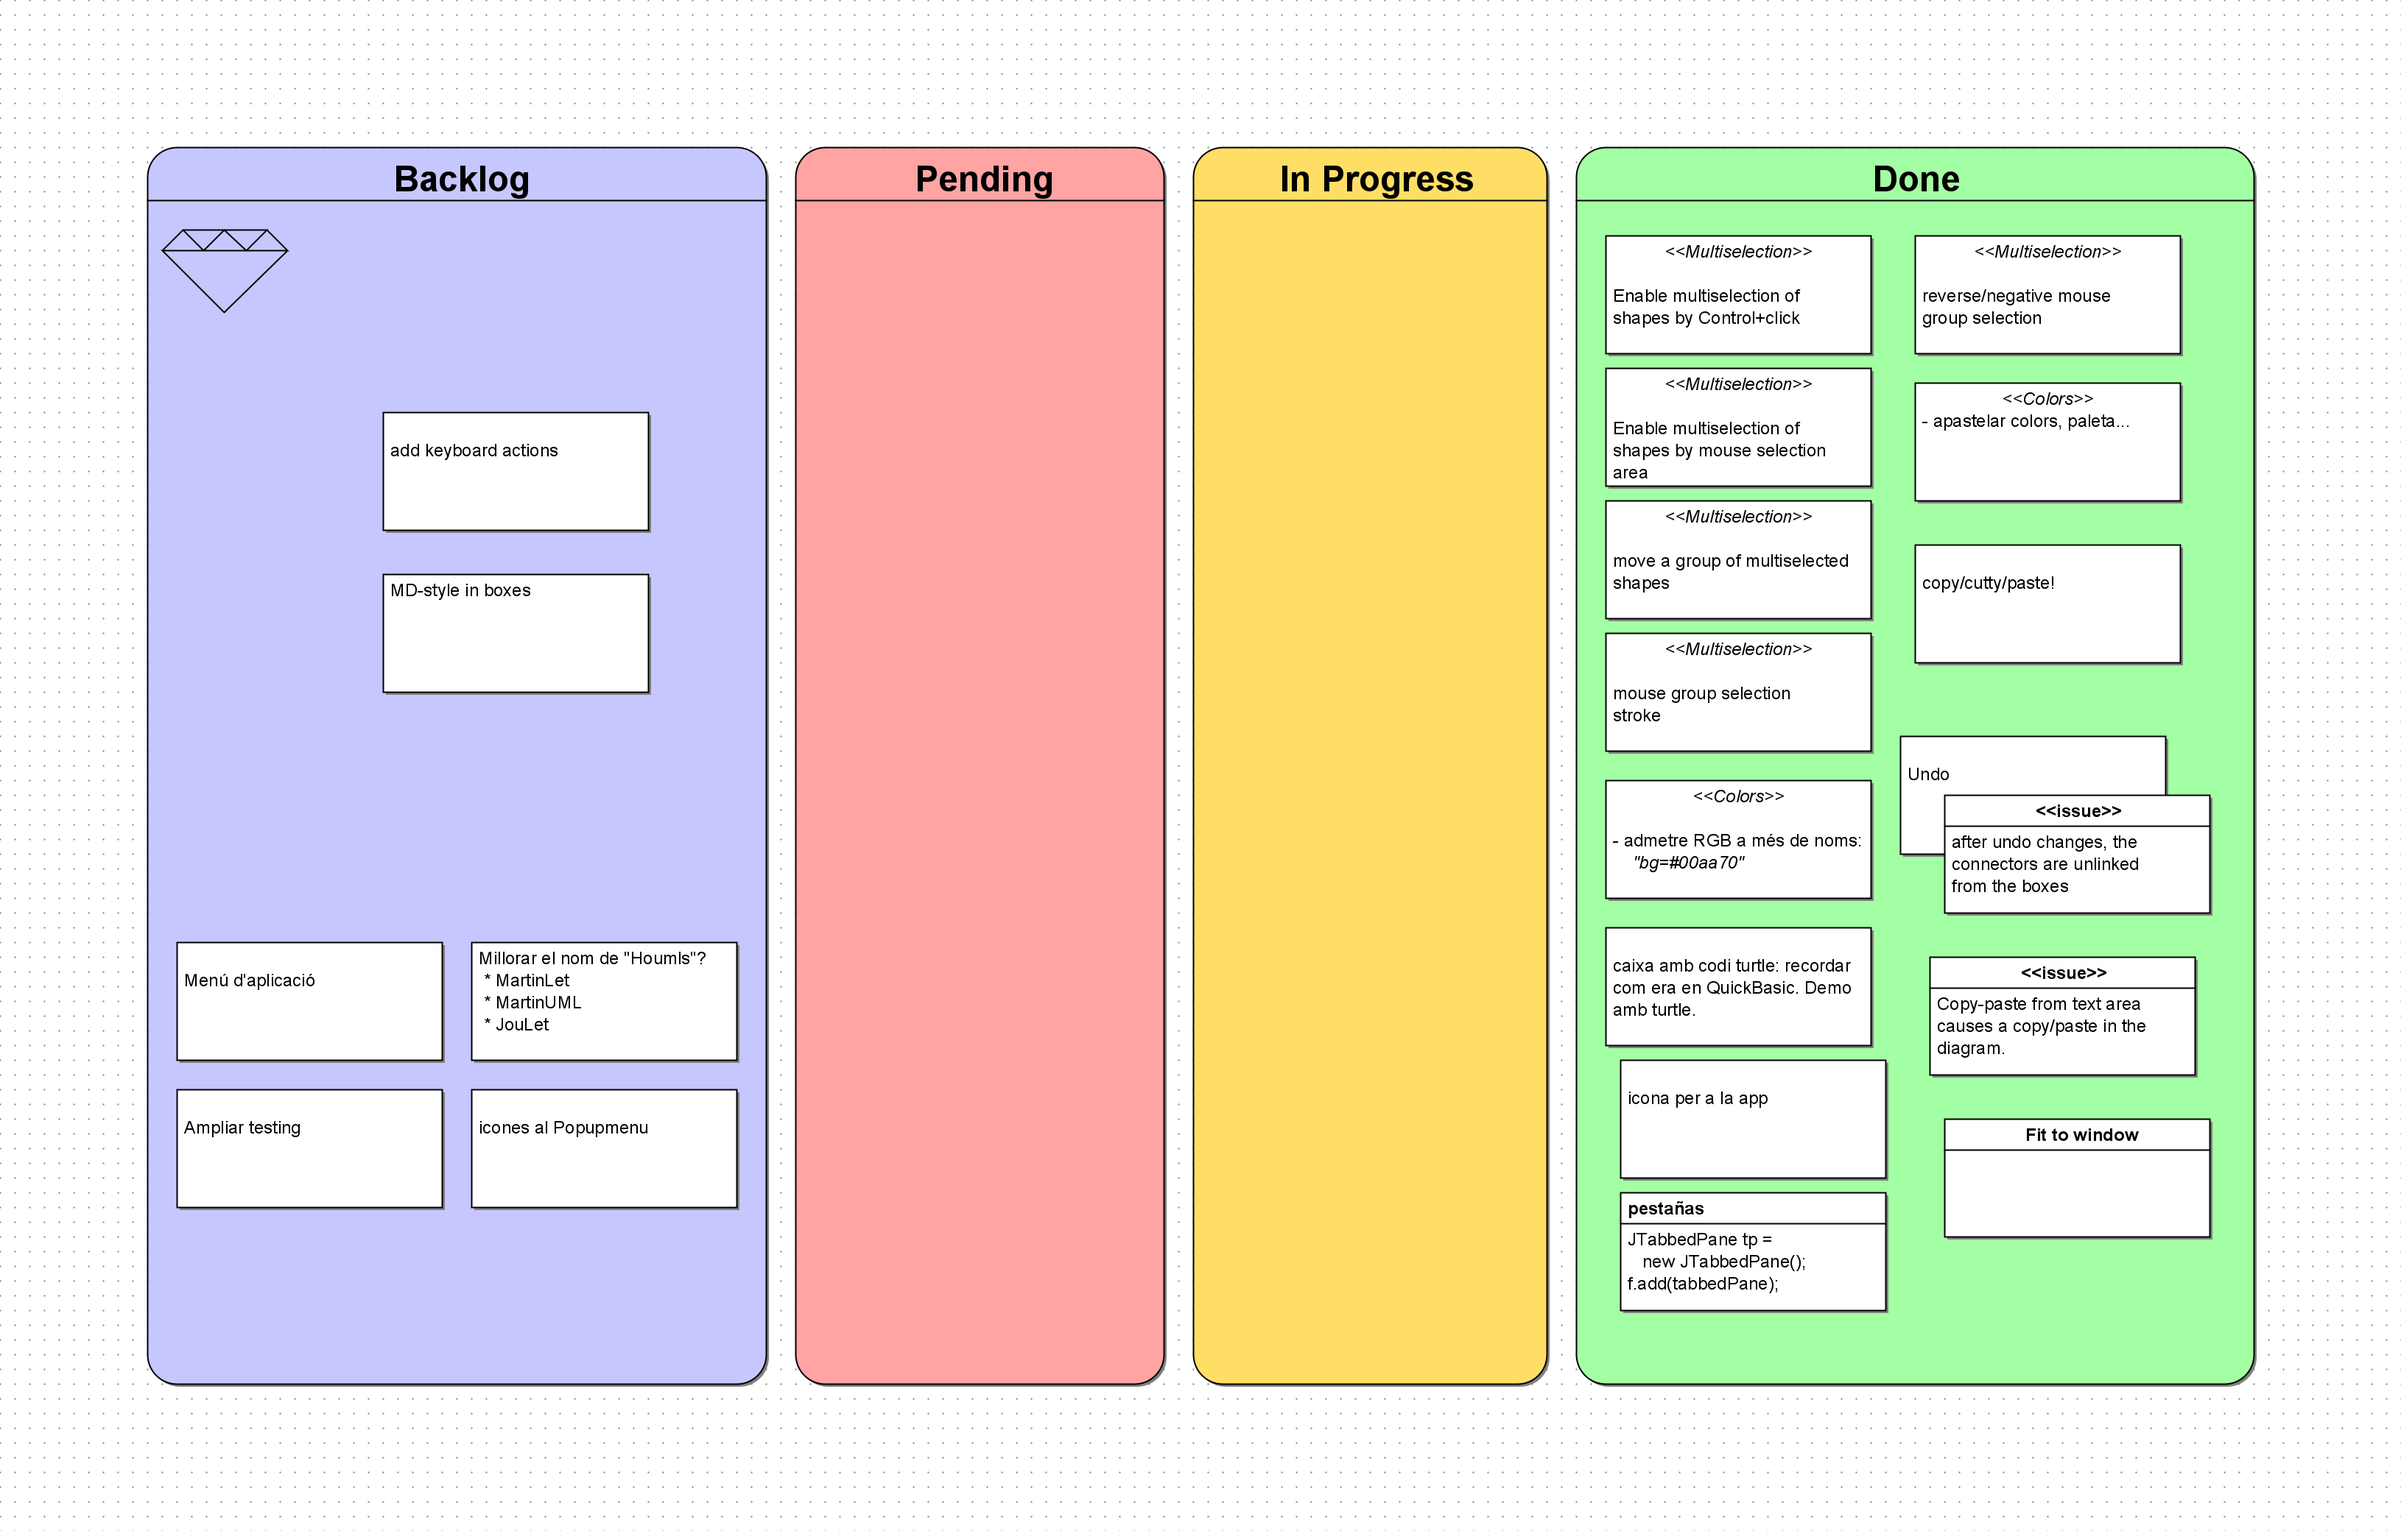
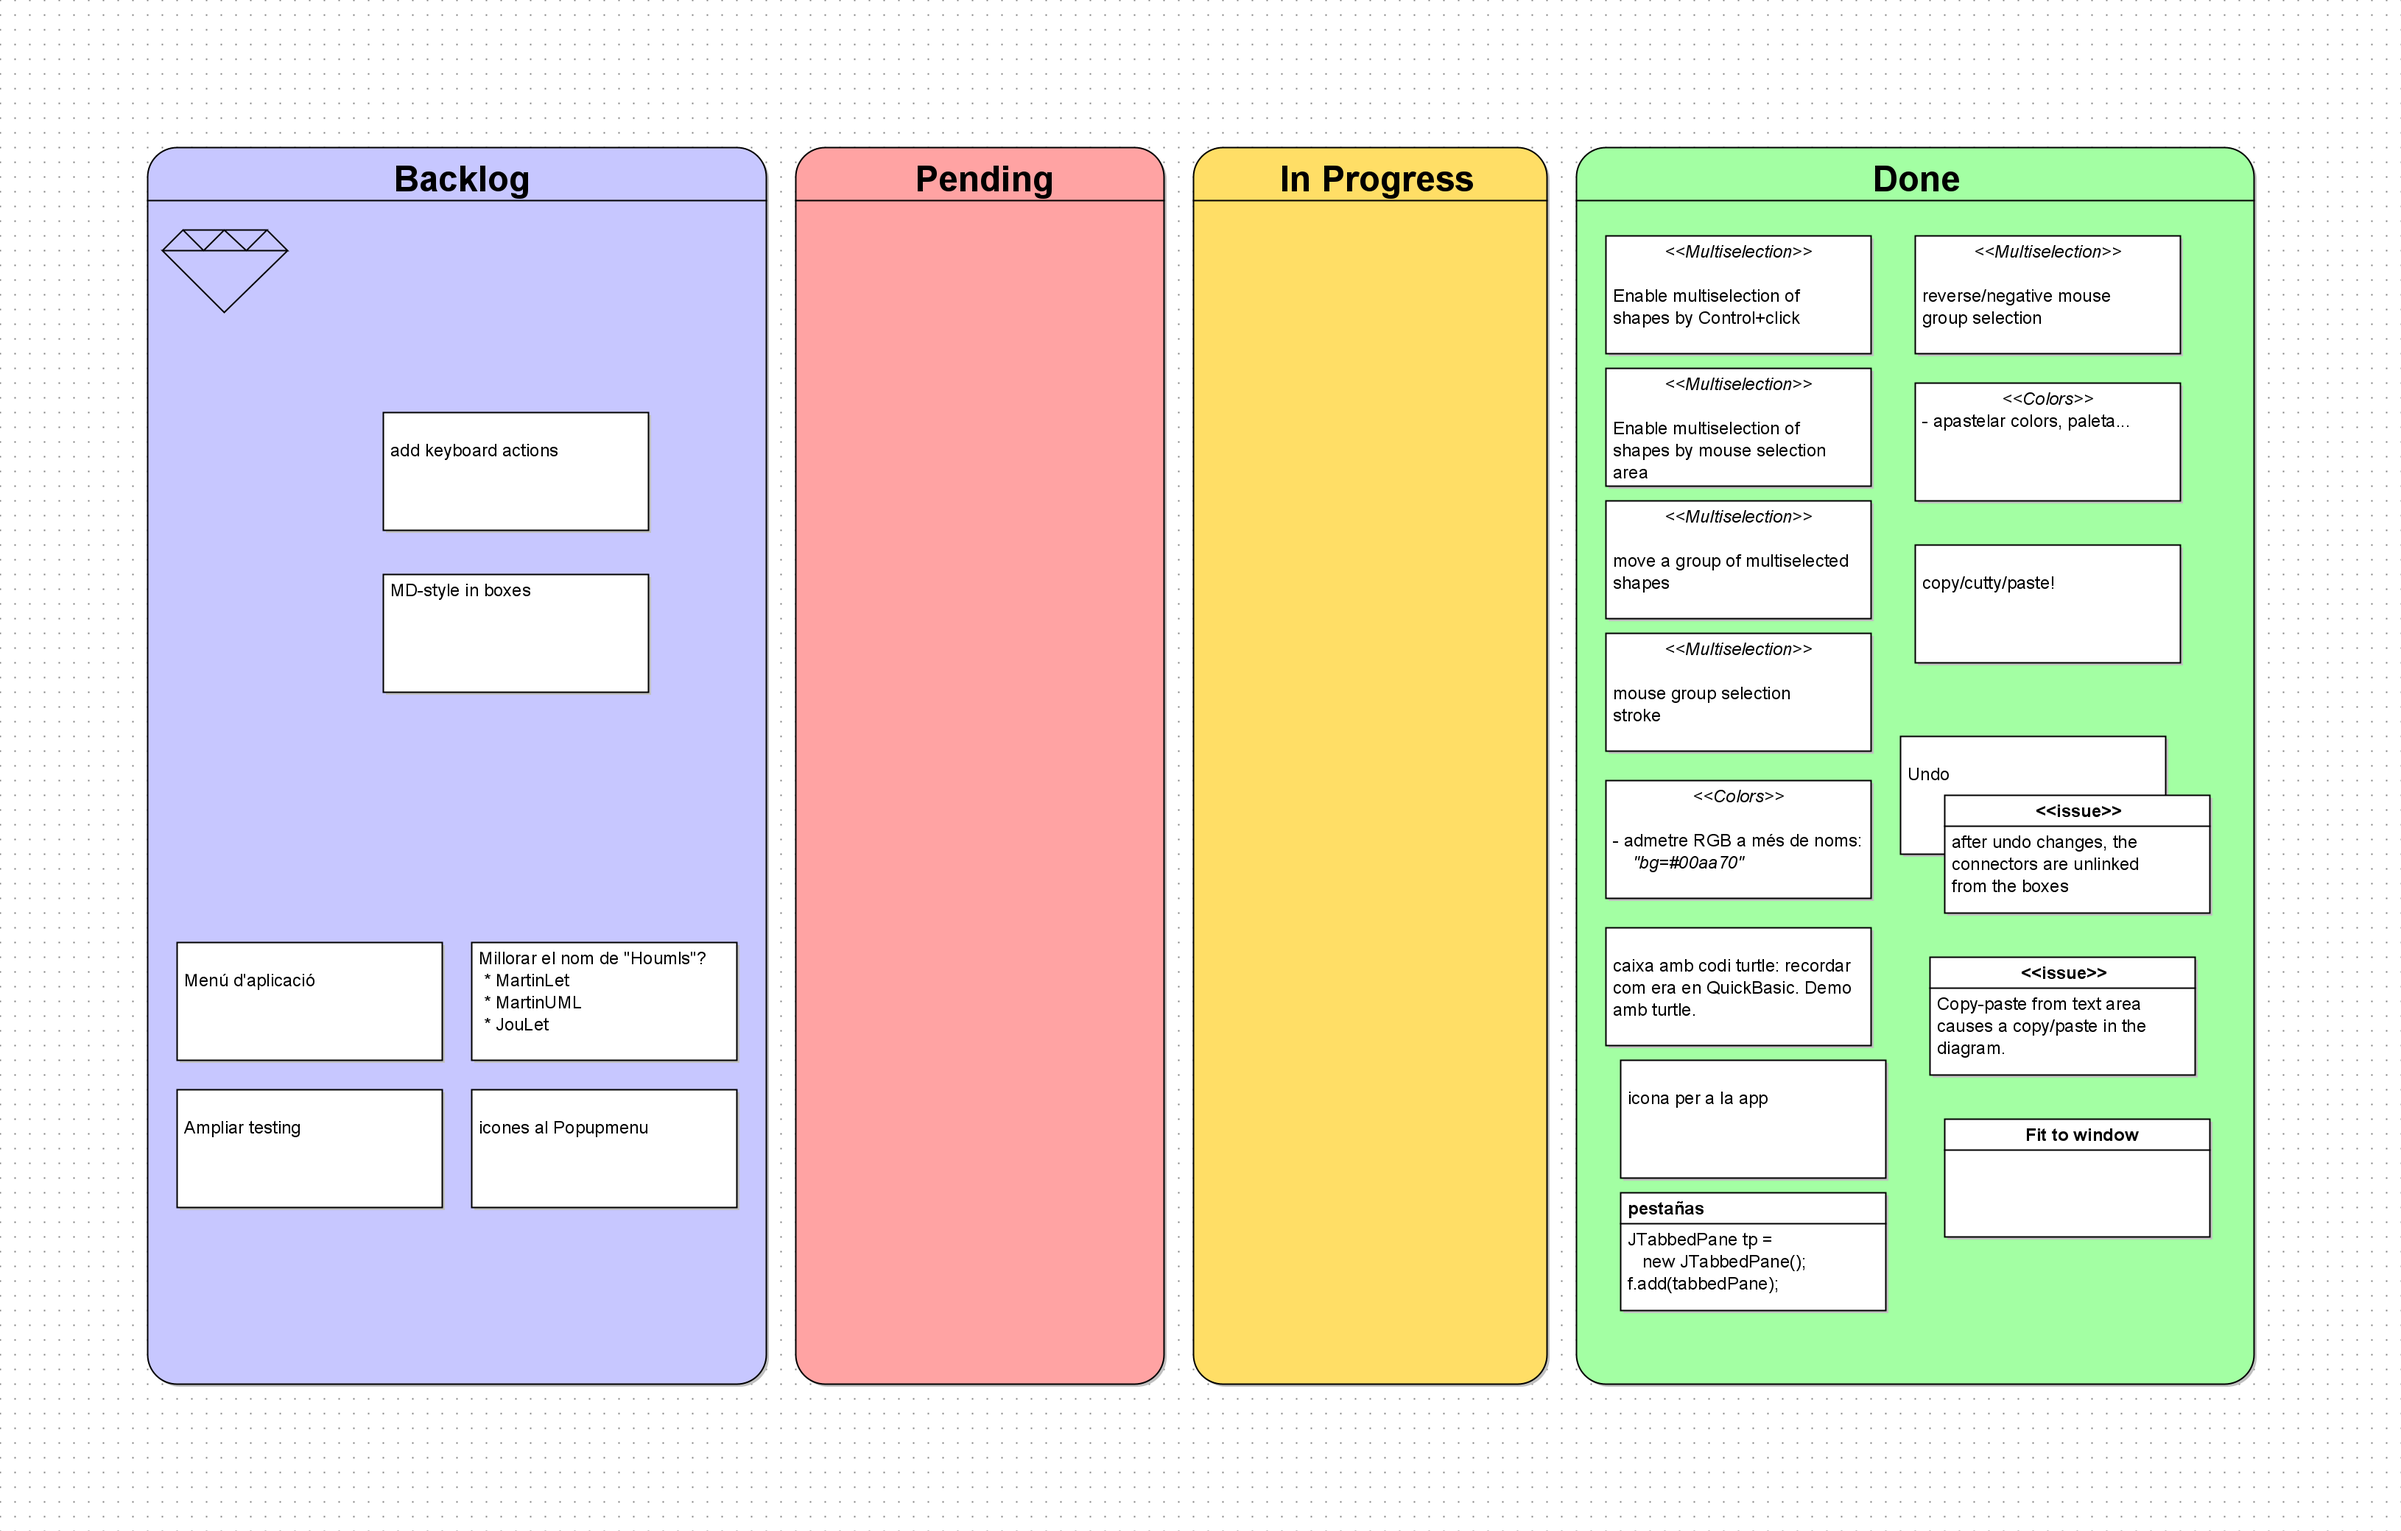
.

diff --git a/src/main/java/org/homs/lechugauml/LookAndFeel.java b/src/main/java/org/homs/lechugauml/LookAndFeel.java
@@ -43,7 +43,7 @@ public class LookAndFeel {
     public static final Stroke basicStroke = new BasicStroke(1);
     public static final Stroke dashedStroke = new BasicStroke(1, BasicStroke.CAP_BUTT, BasicStroke.JOIN_BEVEL, 0, new float[]{5}, 0);
 
-    public static final Color BOXES_SHADOW_COLOR = Color.GRAY;
+    public static final Color BOXES_SHADOW_COLOR = Color.LIGHT_GRAY;
     public static final String DEFAULT_BOXES_SHADOW_WIDTH = "2";
 
     public static void setRenderingHints(Graphics2D g2) {
